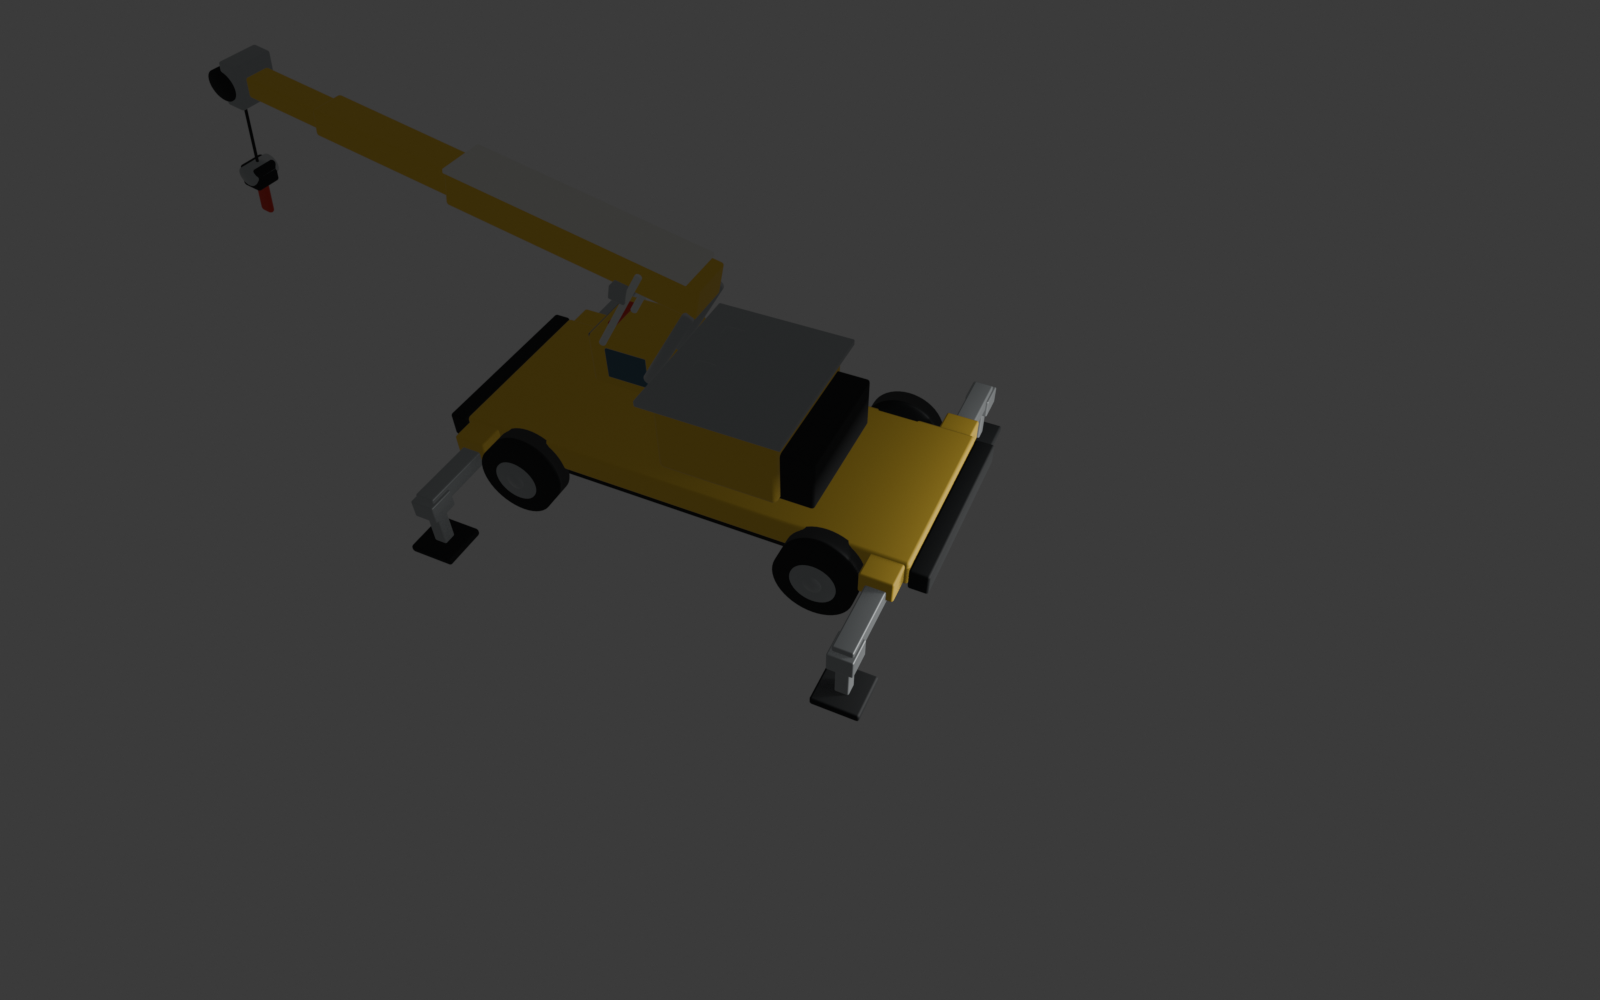
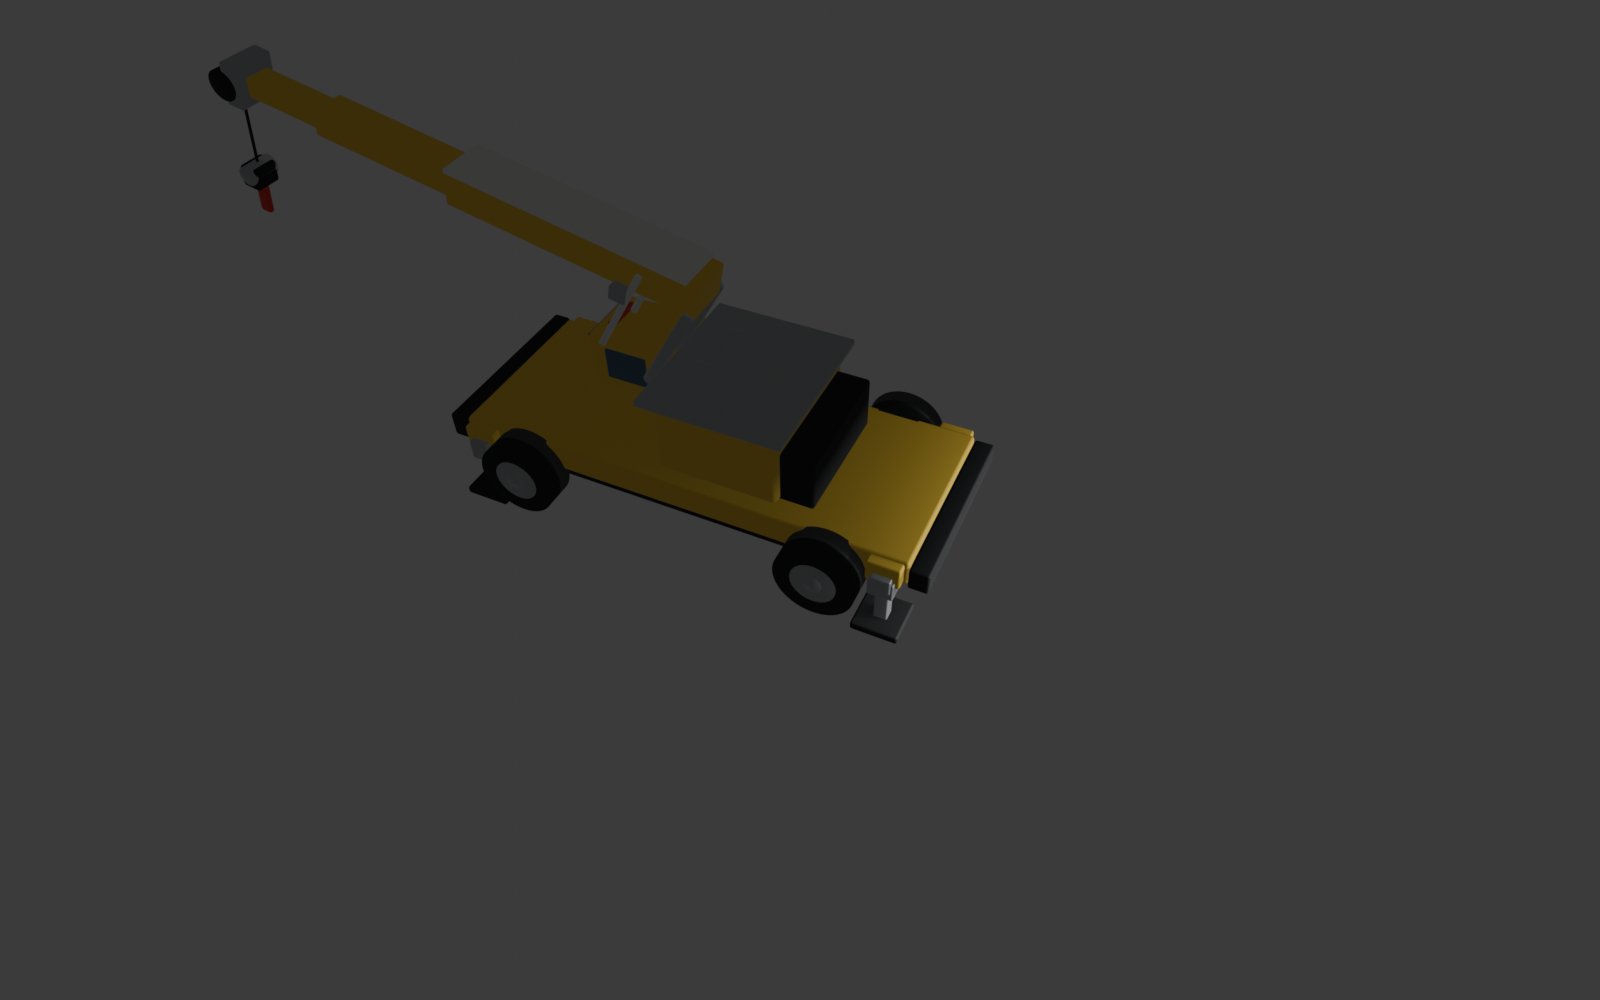
Move stowed outriggers inside tire width

diff --git a/index.html b/index.html
@@ -318,7 +318,7 @@
 </head>
 <body>
   <div id="app"></div>
-  <a id="quickLookLink" rel="ar" href="./webar_crane_generated.usdz?v=20260628-outrigger-jack-stretch" style="display:none">
+  <a id="quickLookLink" rel="ar" href="./webar_crane_generated.usdz?v=20260628-outrigger-stowed-inside" style="display:none">
     <img alt="Generated crane AR model" src="./preview_0001.png">
   </a>
 
@@ -435,10 +435,12 @@
     const quickLookLink = document.querySelector("#quickLookLink");
     const panel = document.querySelector(".panel");
     const panelToggle = document.querySelector("#panelToggle");
-    const ASSET_VERSION = "20260628-outrigger-jack-stretch";
+    const ASSET_VERSION = "20260628-outrigger-stowed-inside";
     const BOOM_STAGE_TRAVEL = 1.15;
-    const OUTRIGGER_SIDE_TRAVEL = 0.12;
-    const OUTRIGGER_BEAM_SCALE = 1.35;
+    const OUTRIGGER_SIDE_TRAVEL = 0;
+    const OUTRIGGER_BEAM_SHIFT = 0.38;
+    const OUTRIGGER_BEAM_SCALE = 2.3;
+    const OUTRIGGER_TIP_TRAVEL = 1.15;
     const OUTRIGGER_DOWN_TRAVEL = 0.48;
     const OUTRIGGER_JACK_BASE_LENGTH = 0.64;
     const OUTRIGGER_LIFT = 0.28;
@@ -722,25 +724,25 @@
 
         if (outrigger.beam) {
           const base = getBasePosition(outrigger.beam);
-          outrigger.beam.position.x = base.x + outrigger.side * extension * 0.18;
+          outrigger.beam.position.x = base.x + outrigger.side * extension * OUTRIGGER_BEAM_SHIFT;
           outrigger.beam.scale.x = 1 + extension * (OUTRIGGER_BEAM_SCALE - 1);
         }
 
         if (outrigger.collar) {
           const base = getBasePosition(outrigger.collar);
-          outrigger.collar.position.x = base.x + outrigger.side * extension * 0.65;
+          outrigger.collar.position.x = base.x + outrigger.side * extension * OUTRIGGER_TIP_TRAVEL;
         }
 
         if (outrigger.jack) {
           const base = getBasePosition(outrigger.jack);
-          outrigger.jack.position.x = base.x + outrigger.side * extension * 0.65;
+          outrigger.jack.position.x = base.x + outrigger.side * extension * OUTRIGGER_TIP_TRAVEL;
           outrigger.jack.position.z = base.z + downTravel * 0.5;
           outrigger.jack.scale.z = 1 + downTravel / OUTRIGGER_JACK_BASE_LENGTH;
         }
 
         if (outrigger.foot) {
           const base = getBasePosition(outrigger.foot);
-          outrigger.foot.position.x = base.x + outrigger.side * extension * 0.65;
+          outrigger.foot.position.x = base.x + outrigger.side * extension * OUTRIGGER_TIP_TRAVEL;
           outrigger.foot.position.z = base.z + downTravel;
         }
       }

diff --git a/create_webar_crane.py b/create_webar_crane.py
@@ -150,11 +150,11 @@ def create_model():
         for end, z in (("Front", 2.55), ("Rear", -2.55)):
             outrigger = empty(f"Outrigger_{end}_{side}", (0, 0, z), parent=chassis, display="ARROWS", size=0.2)
             outrigger["webar_role"] = "outrigger"
-            cube_obj(f"Outrigger_{end}_{side}_Mount", (0.82, 0.28, 0.4), (sign * 1.0, 0.72, 0), crane_yellow, parent=outrigger, bevel=0.025)
-            cube_obj(f"Outrigger_{end}_{side}_Beam", (2.2, 0.2, 0.24), (sign * 1.18, 0.62, 0), steel, parent=outrigger, bevel=0.02)
-            cube_obj(f"Outrigger_{end}_{side}_Collar", (0.34, 0.24, 0.3), (sign * 2.18, 0.54, 0), steel, parent=outrigger, bevel=0.018)
-            cube_obj(f"Outrigger_{end}_{side}_Jack", (0.16, 0.64, 0.16), (sign * 2.18, 0.28, 0), steel, parent=outrigger, bevel=0.018)
-            cube_obj(f"Outrigger_{end}_{side}_Foot", (0.56, 0.1, 0.56), (sign * 2.18, -0.08, 0), dark, parent=outrigger, bevel=0.03)
+            cube_obj(f"Outrigger_{end}_{side}_Mount", (0.68, 0.28, 0.4), (sign * 0.88, 0.72, 0), crane_yellow, parent=outrigger, bevel=0.025)
+            cube_obj(f"Outrigger_{end}_{side}_Beam", (1.1, 0.2, 0.24), (sign * 0.74, 0.62, 0), steel, parent=outrigger, bevel=0.02)
+            cube_obj(f"Outrigger_{end}_{side}_Collar", (0.34, 0.24, 0.3), (sign * 1.1, 0.54, 0), steel, parent=outrigger, bevel=0.018)
+            cube_obj(f"Outrigger_{end}_{side}_Jack", (0.16, 0.64, 0.16), (sign * 1.1, 0.28, 0), steel, parent=outrigger, bevel=0.018)
+            cube_obj(f"Outrigger_{end}_{side}_Foot", (0.56, 0.1, 0.56), (sign * 1.1, -0.08, 0), dark, parent=outrigger, bevel=0.03)
 
     turntable = empty("Turntable_Yaw", (0, 1.05, -0.35), parent=root, display="ARROWS", size=0.5)
     turntable["webar_role"] = "turntable"